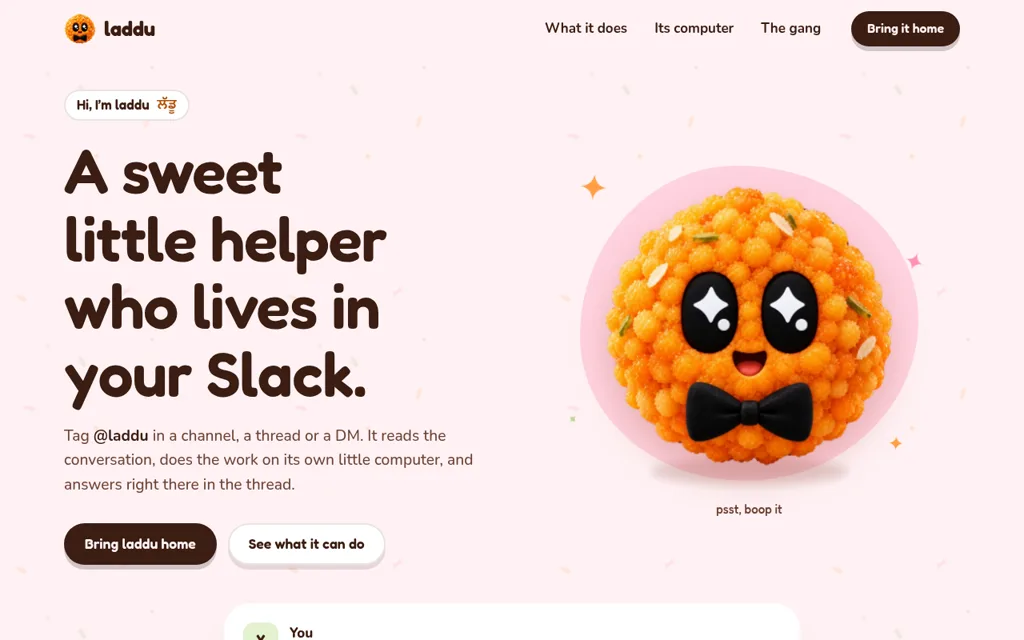
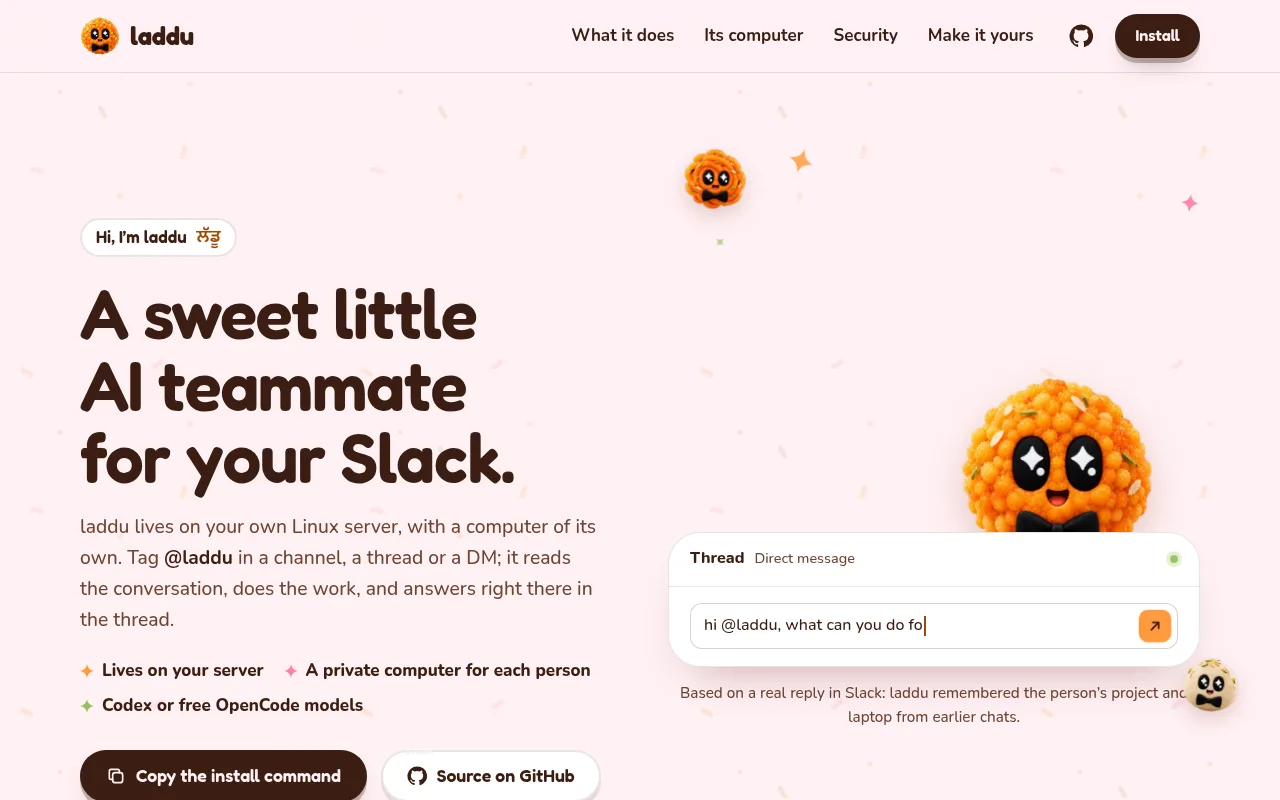
Show laddu's dark-mode screenshot in dark theme, refresh both captures

diff --git a/src/data/projects.ts b/src/data/projects.ts
@@ -2,6 +2,7 @@ import type { ImageMetadata } from 'astro';
 import dinoShot from '../assets/projects/dino-3d.webp';
 import dinoMark from '../assets/projects/dino-3d-mark.png';
 import ladduShot from '../assets/projects/laddu.webp';
+import ladduShotDark from '../assets/projects/laddu-dark.webp';
 import ladduMark from '../assets/projects/laddu-mark.webp';
 
 export interface Project {
@@ -18,6 +19,8 @@ export interface Project {
   source?: string;
   shot: ImageMetadata;
   shotAlt: string;
+  /** Optional dark-mode screenshot, shown instead of `shot` in dark mode. */
+  shotDark?: ImageMetadata;
   /** Square icon next to the name. Set `pixel` for pixel art. */
   mark: ImageMetadata;
   pixel?: boolean;
@@ -52,6 +55,7 @@ export const projects: Project[] = [
     live: 'https://laddu.wtf',
     source: 'https://github.com/mohiwalla/laddu',
     shot: ladduShot,
+    shotDark: ladduShotDark,
     shotAlt: 'The laddu.wtf landing page with a smiling laddoo mascot in a bow tie.',
     mark: ladduMark,
   },

diff --git a/src/styles/global.css b/src/styles/global.css
@@ -287,6 +287,9 @@ h1 {
   filter: var(--dark-dim);
   transition: transform 0.7s cubic-bezier(0.2, 0.7, 0.2, 1);
 }
+.shot-dark {
+  display: none !important;
+}
 .fig img.invert {
   filter: var(--dark-img);
 }
@@ -339,6 +342,22 @@ footer {
   .no {
     align-self: start;
   }
+}
+@media (prefers-color-scheme: dark) {
+  :root:not([data-theme='light']) .shot.has-dark {
+    display: none;
+  }
+  :root:not([data-theme='light']) .shot-dark {
+    display: block !important;
+    filter: none;
+  }
+}
+:root[data-theme='dark'] .shot.has-dark {
+  display: none;
+}
+:root[data-theme='dark'] .shot-dark {
+  display: block !important;
+  filter: none;
 }
 @media (prefers-reduced-motion: reduce) {
   html {
